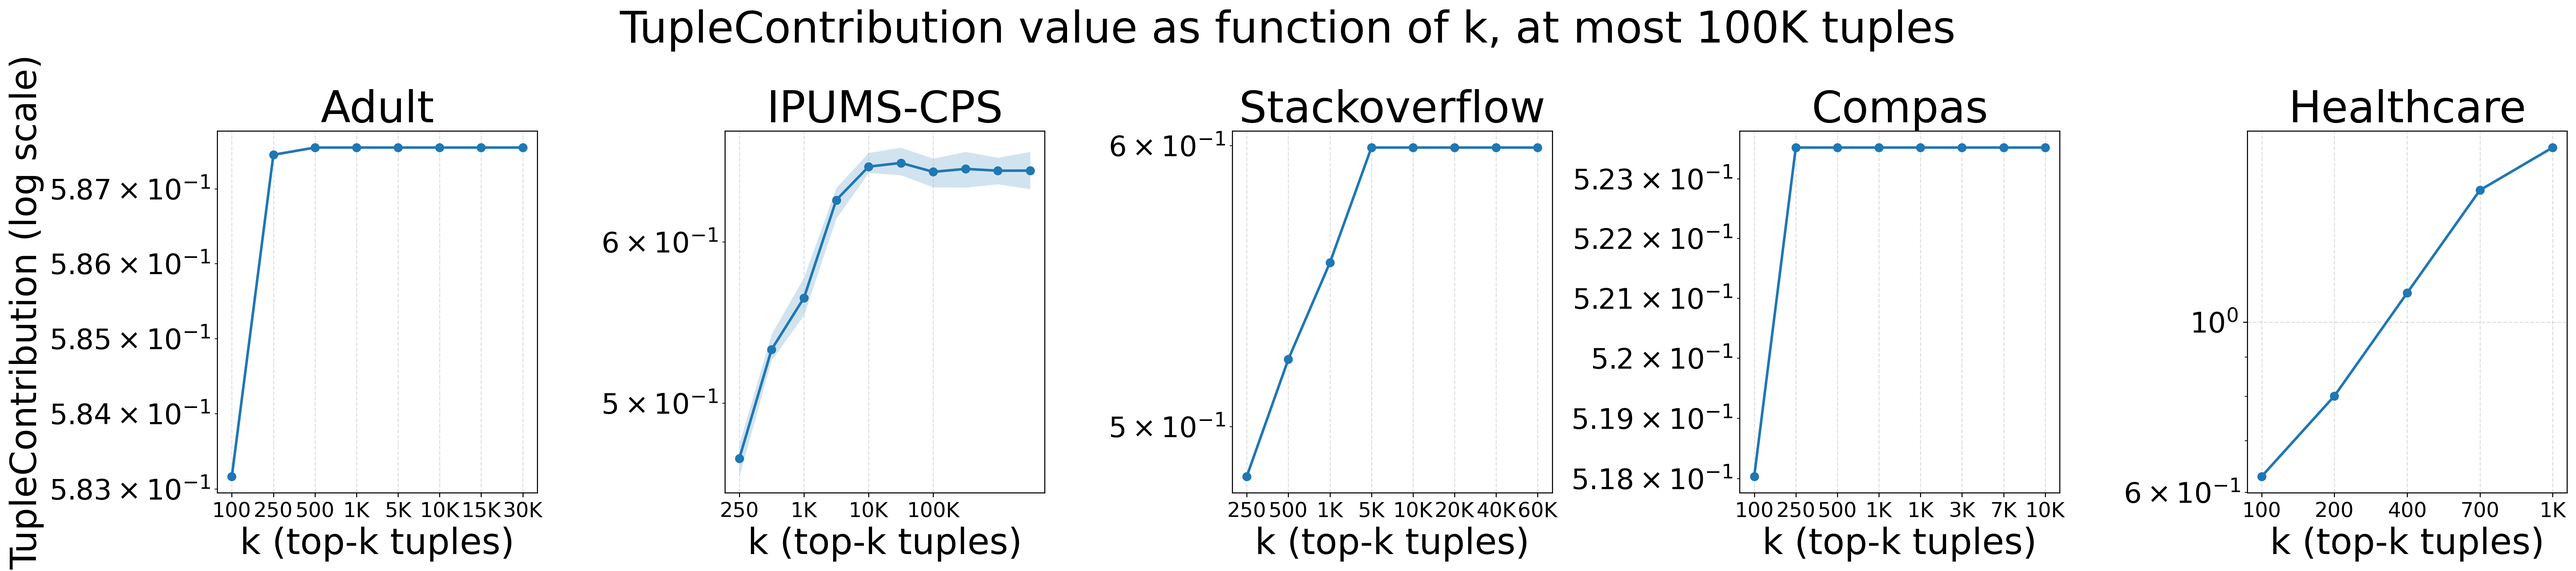
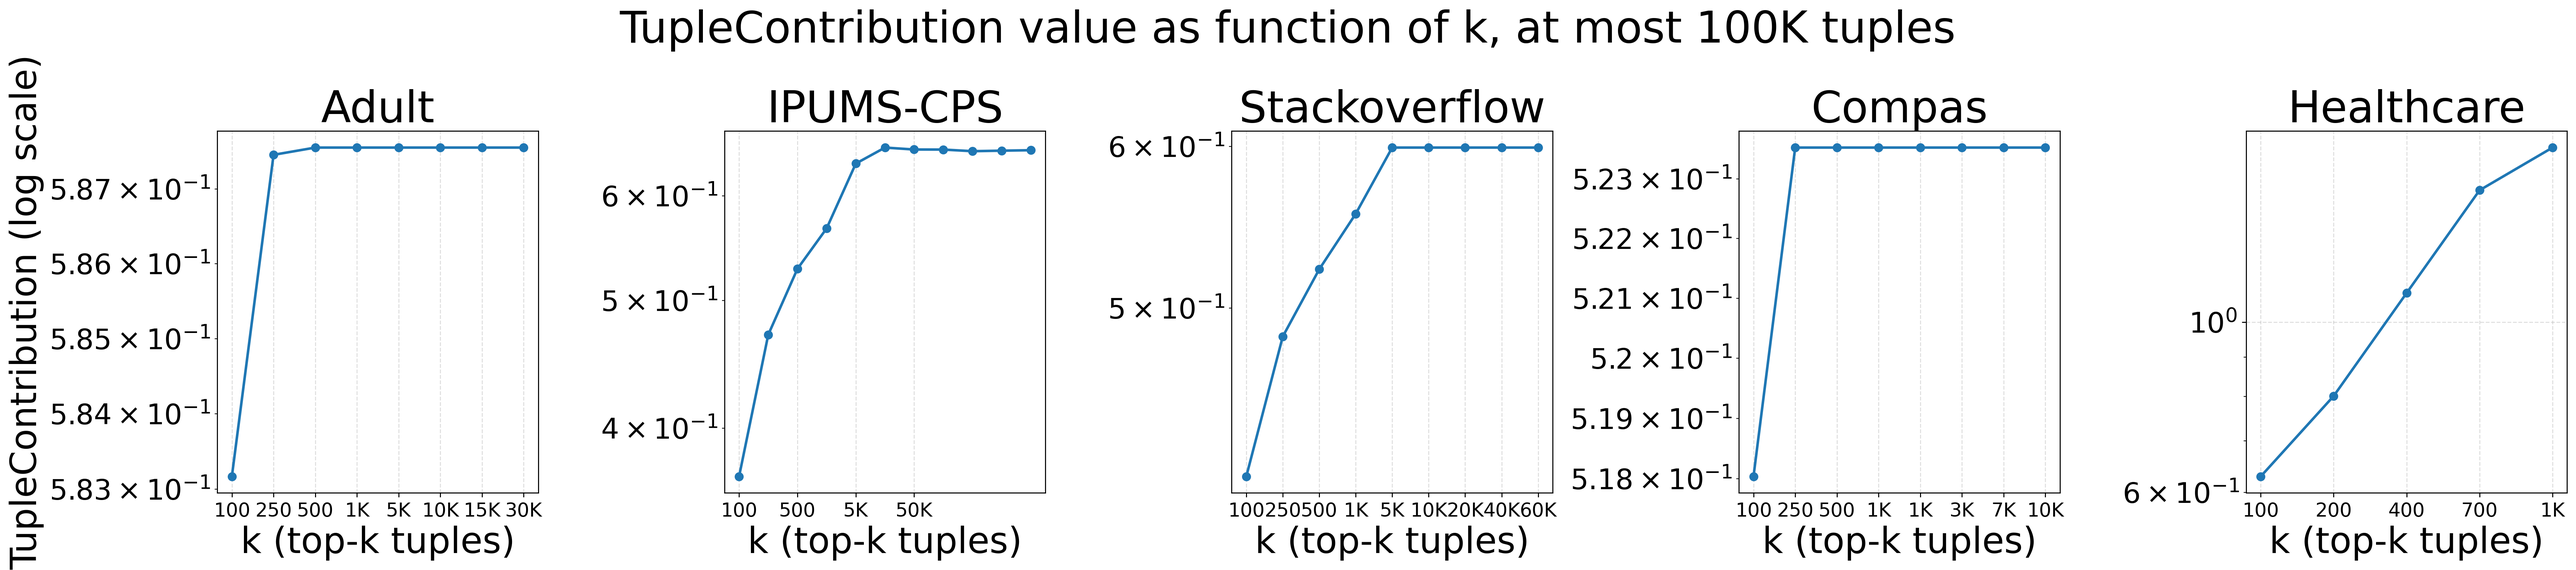
Removed shadow

diff --git a/main.py b/main.py
@@ -1656,7 +1656,7 @@ def run_experiment_5(
     plt.rcParams.update({
         "axes.titlesize": 34,
         "axes.labelsize": 28,
-        "xtick.labelsize": 16,
+        "xtick.labelsize": 15,
         "ytick.labelsize": 22,
         "figure.titlesize": 34,
     })
@@ -1773,7 +1773,7 @@ def run_experiment_6(
     plt.rcParams.update({
         "axes.titlesize": 28,
         "axes.labelsize": 24,
-        "xtick.labelsize": 16,
+        "xtick.labelsize": 15,
         "ytick.labelsize": 16,
     })
 
